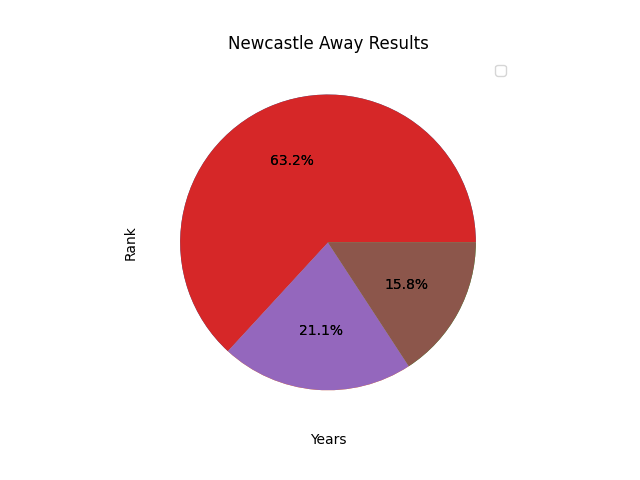
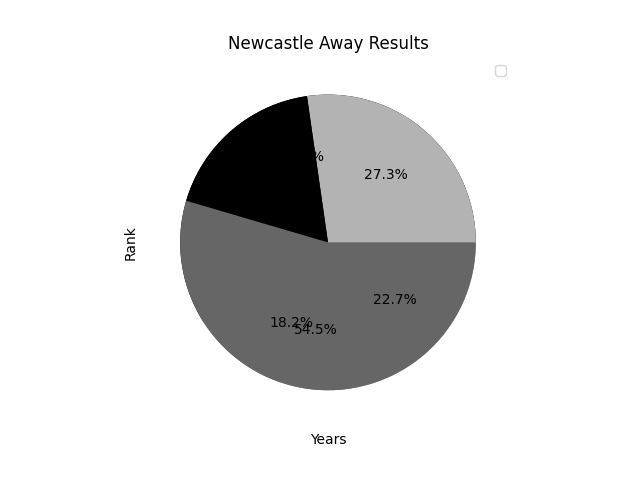
Plotting Pie

Changed region(s): [[0.2812, 0.1875, 0.75, 0.8125]]

diff --git a/main.py b/main.py
@@ -551,6 +551,7 @@ with tab2:
 
 	with col2:
 
+		plt.style.use('grayscale')
 		home_win = []
 		home_draw = []
 		home_lose = []
@@ -562,10 +563,11 @@ with tab2:
 
 		for v in response_standings['response']:
 			if 'Premier League' in v['league']['name']:
-				for h in v['league']['standings'][0][0]['home']:
-					home_win.append(v['league']['standings'][0][0]['home']['win'])
-					home_draw.append(v['league']['standings'][0][0]['home']['draw'])
-					home_lose.append(v['league']['standings'][0][0]['home']['lose'])
+				for a in response_standings['response']:
+					if 'standings' in a['league']:
+						home_win.append(a['league']['standings'][0][0]['home']['win'])
+						home_draw.append(a['league']['standings'][0][0]['home']['draw'])
+						home_lose.append(a['league']['standings'][0][0]['home']['lose'])
 
 		hme_win_len, hme_draw_len, hme_lose_len = len(home_win), len(home_draw), len(home_lose)
 		total_results = sum(home_win) + sum(home_draw) + sum(home_lose)
@@ -589,14 +591,16 @@ with tab2:
 		st.image(rounded_image)
 
 	with col3:
+		plt.style.use('grayscale')
 		for v in response_standings['response']:
 			if 'Premier League' in v['league']['name']:
-				for a in v['league']['standings'][0][0]['away']:
-					away_win.append(v['league']['standings'][0][0]['home']['win'])
-					away_draw.append(v['league']['standings'][0][0]['home']['draw'])
-					away_lose.append(v['league']['standings'][0][0]['home']['lose'])
+				for a in response_standings['response']:
+					if 'standings' in a['league']:
+						away_win.append(a['league']['standings'][0][0]['away']['win'])
+						away_draw.append(a['league']['standings'][0][0]['away']['draw'])
+						away_lose.append(a['league']['standings'][0][0]['away']['lose'])
 
-		hme_win_len, hme_draw_len, hme_lose_len = len(home_win), len(home_draw), len(home_lose)
+		away_win_len, away_draw_len, away_lose_len = len(away_win), len(away_draw), len(away_lose)
 		total_results = sum(away_win) + sum(away_draw) + sum(away_lose)
 		away_win_perc = (sum(away_win) / total_results) * 100
 		away_draw_perc = (sum(away_draw) / total_results) * 100
